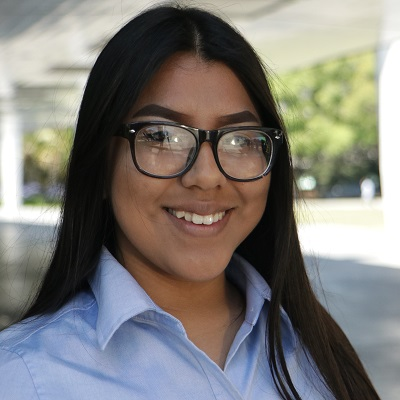
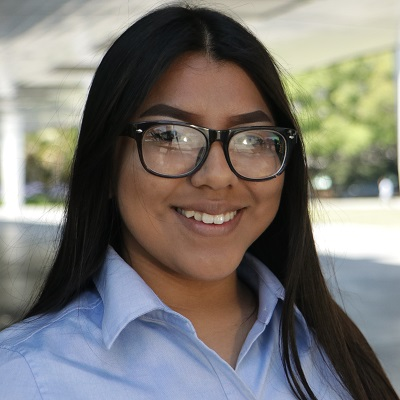
Edited pictures and stuff

diff --git a/index.html b/index.html
@@ -50,14 +50,14 @@
   <div class="bgimg-1">
     <div class="caption">
       <span class="border" style="font-size:50px">Inspoeta</span>
+      <!--<img src="images/Inspoeta Logo.jpg">-->
       <br />
       <!--Buton to activiate modal Login-->
-      <button class="btn btn-primary" role="button" style="width:150px " onclick="document.getElementById('id01').style.display='block'">Login</button>
+      <button class="btn btn-primary" role="button" style="width:150px " onclick="document.getElementById('id01').style.display='block'">Explore the Site</button>
 
 <!-- The Modal -->
 <div id="id01" class="modal">
-  <span onclick="document.getElementById('id01').style.display='none'"
-class="close" title="Close Modal">&times;</span>
+  <span onclick="document.getElementById('id01').style.display='none'" class="close" title="Close Modal">&times;</span>
 
   <!-- Modal Content -->
   <form class="modal-content animate" action="http://www.inspoeta.com/">
@@ -67,10 +67,10 @@ class="close" title="Close Modal">&times;</span>
 
     <div class="container">
       <label><b>Username</b></label>
-      <input type="text" placeholder="Enter Username" name="uname" required>
+      <input type="text" placeholder="Enter Username" name="uname" style="width:100%" required>
       <br />
       <label><b>Password</b></label>
-      <input type="password" placeholder="Enter Password" name="psw" required>
+      <input type="password" placeholder="Enter Password" name="psw" style="width:100%" required>
       <br />
       <input type="checkbox" checked="checked"> Remember me
       <br />
@@ -88,7 +88,7 @@ class="close" title="Close Modal">&times;</span>
 </div>
 
       <!--Button to open the modal for Sign Up-->
-      <button class="btn btn-primary" role="button" style="width:150px" onclick="document.getElementById('id02').style.display='block'">Sign Up</button>
+      <button class="btn btn-primary" role="button" style="width:150px" onclick="document.getElementById('id02').style.display='block'">Discover New Poetry</button>
 
       <!-- The Modal (contains the Sign Up form) -->
 <div id="id02" class="modal">
@@ -97,19 +97,19 @@ class="close" title="Close Modal">&times;</span>
     <div class="container">
       <label><b>Email</b></label>
       <br />
-      <input type="text" placeholder="Enter Email" name="email" required>
+      <input type="text" placeholder="Enter Email" name="email" style="width:100%" required>
       <br />
       <label><b>Username</b></label>
       <br />
-      <input type="text" placeholder="Enter Username" name="uname" required>
+      <input type="text" placeholder="Enter Username" name="uname" style="width:100%" required>
       <br />
       <label><b>Password</b></label>
       <br />
-      <input type="password" placeholder="Enter Password" name="psw" required>
+      <input type="password" placeholder="Enter Password" name="psw" style="width:100%" required>
       <br />
       <label><b>Repeat Password</b></label>
       <br />
-      <input type="password" placeholder="Repeat Password" name="psw-repeat" required>
+      <input type="password" placeholder="Repeat Password" name="psw-repeat" style="width:100%" required>
       <br />
       <input type="checkbox" name="RememberUser" checked="checked"> Remember me
       <br />

diff --git a/CSS/styles.css b/CSS/styles.css
@@ -126,7 +126,7 @@ h3 {
 }
 
 .people-pictures {
-    border-radius: 50%;
+    border-radius: 10%;
     border: 6px solid #000000;
     height: 200px;
     width: 200px;
